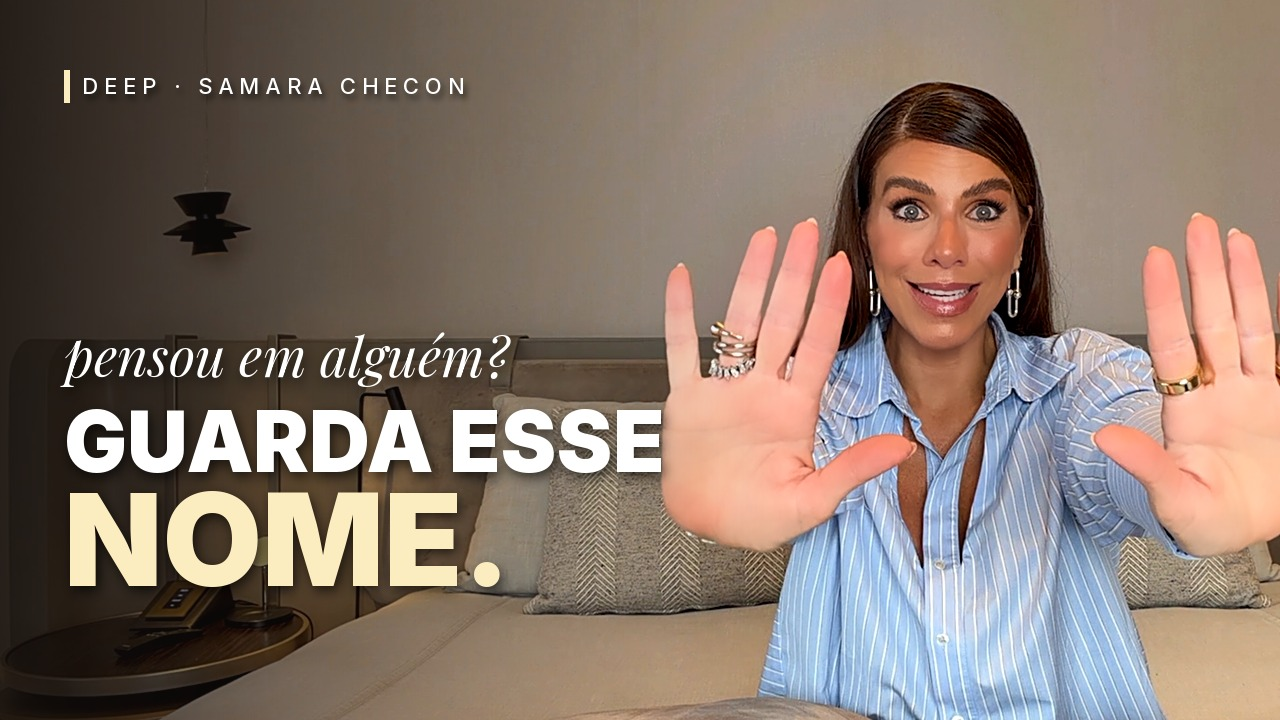
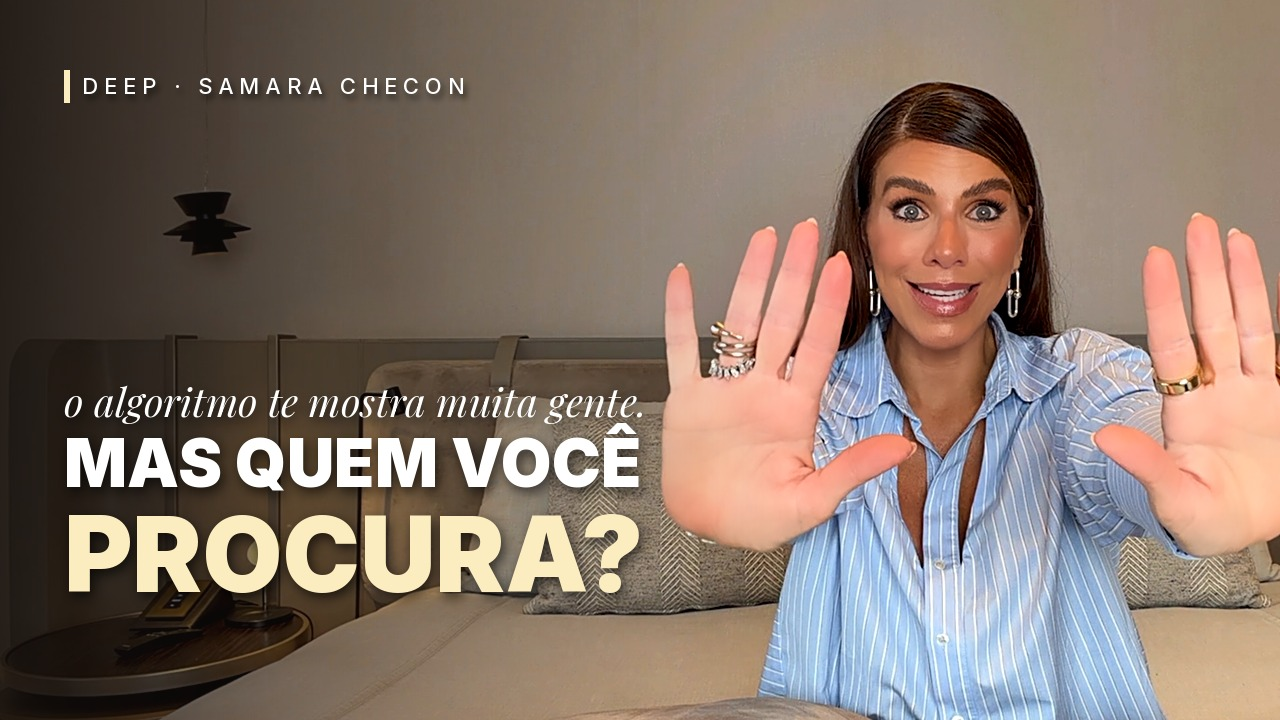
DEEP EP2: thumb B como principal + instruções do teste A/B
Claude-Session: https://claude.ai/code/session_01K7mYsXZ7sWqL5jXyzTRALP

Changed region(s): [[0.0312, 0.4583, 0.5312, 0.8556]]

diff --git a/projetos/deep-ep2/publicacao/youtube.md b/projetos/deep-ep2/publicacao/youtube.md
@@ -1,7 +1,11 @@
 # DEEP — EP2 "O mercado mudou. O que você está construindo?" · textos para o YouTube
 
-Thumb: `thumb_DEEP_EP2_1280x720.jpg` — "pensou em alguém? / GUARDA ESSE / NOME." (quadro do take 1, 18,2 s).
-A thumb provoca (guarda esse nome) e o título dá o contexto da pergunta.
+Thumb principal: `thumb_DEEP_EP2_1280x720.jpg` — opção B: "o algoritmo te mostra muita gente. / MAS QUEM VOCÊ / PROCURA?"
+(quadro do take 1, 18,2 s, pele suavizada). A thumb provoca (quem você procura?) e o título dá o contexto.
+
+Teste A/B no YouTube Studio ("Testar e comparar", até 3 thumbs): subir B (principal), A ("se o Instagram acabasse
+amanhã, / QUEM VOCÊ IA / PROCURAR?") e C ("você fatura. mas / O QUE VOCÊ ESTÁ / CONSTRUINDO?") e deixar o YouTube
+escolher pelo tempo assistido.
 
 ## Título (recomendado)
 Se o Instagram acabasse amanhã, de quem você sentiria falta? | DEEP
